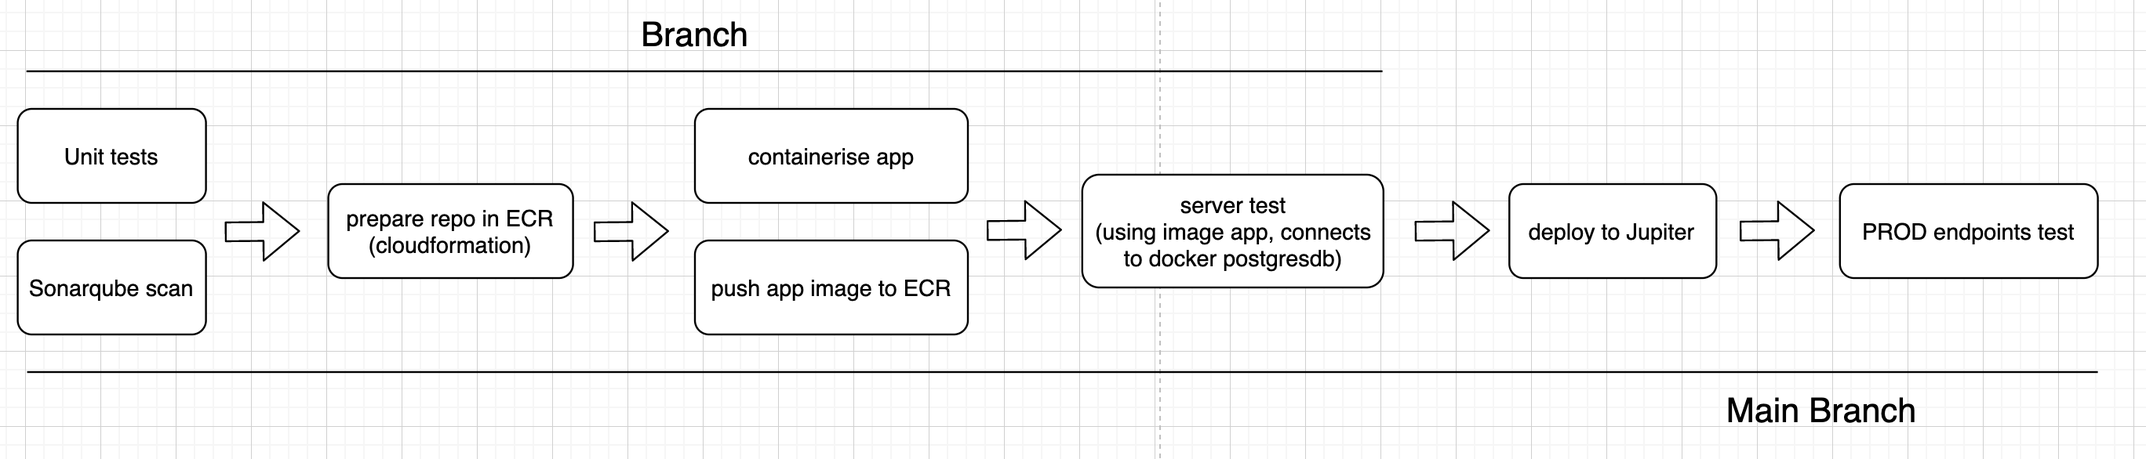
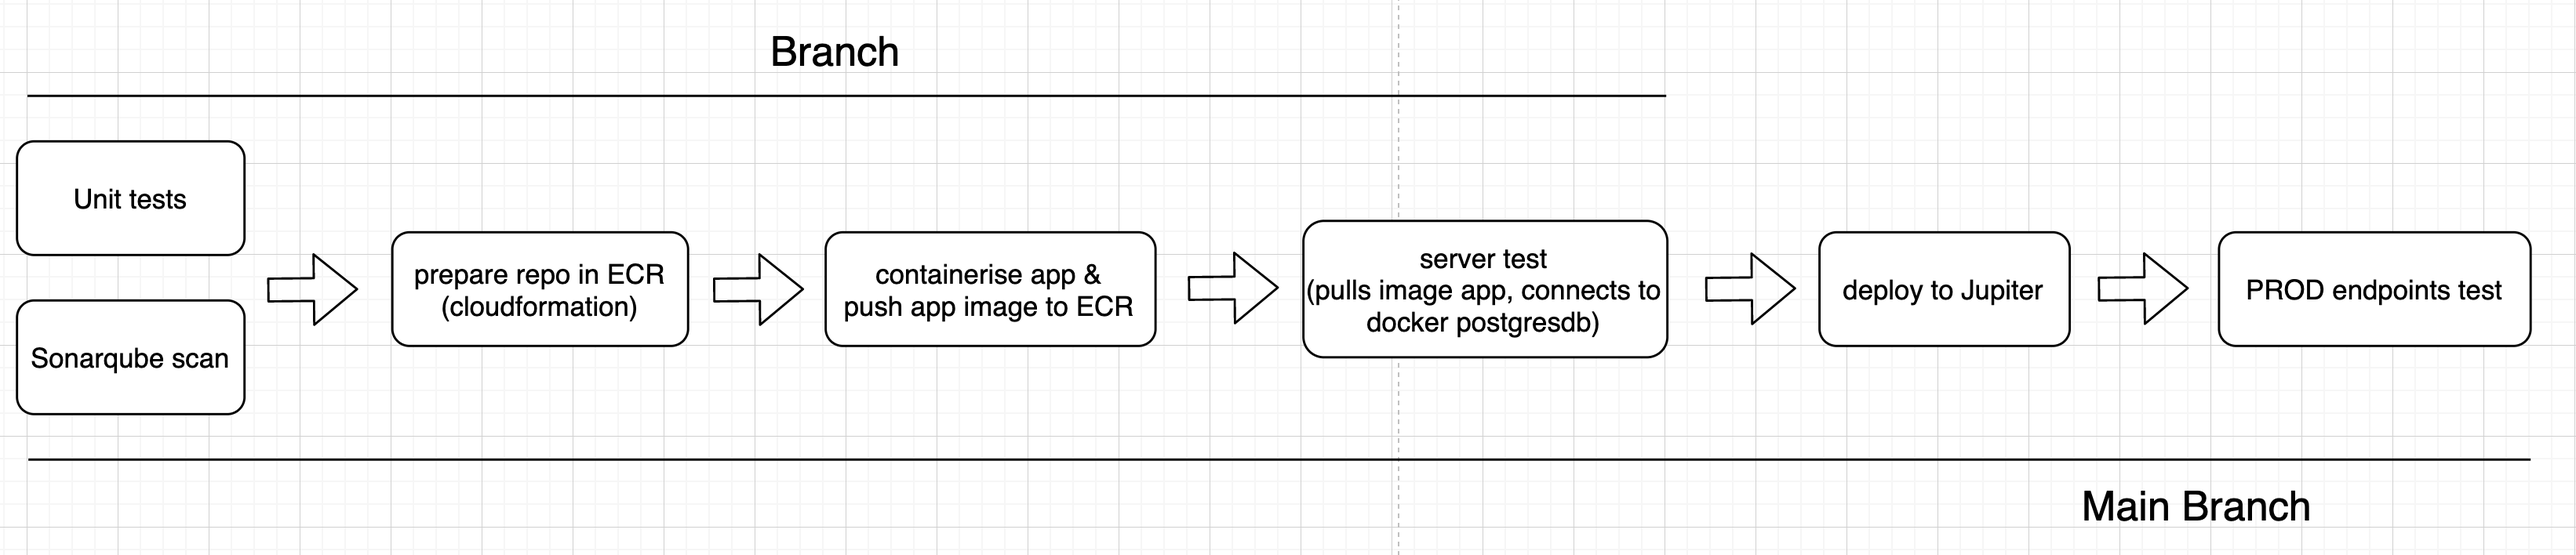
update diagram & readme (#26)

diff --git a/README.md b/README.md
@@ -96,11 +96,11 @@ curl --request DELETE \
 
 ### Run app locally
 
--   build database image with people table & default name Tiffany  
+-   Build database image with people table & default name Tiffany  
     `docker-compose -f ./ops/docker/docker-compose-server-test.yaml build database`
--   spin up the database  
+-   Spin up the database  
     `docker run --rm --name postgres-db -e POSTGRES_DB=postgres -e POSTGRES_PASSWORD=docker -p 5432:5432 -d postgres-db`
--   run app  
+-   Run app  
     `SECRET=secret DB_HOST=localhost DB_PORT=5432 DB_NAME=postgres DB_USER=postgres DB_PASSWORD=docker dotnet run --project WebApplication`
 
 ### View database locally
